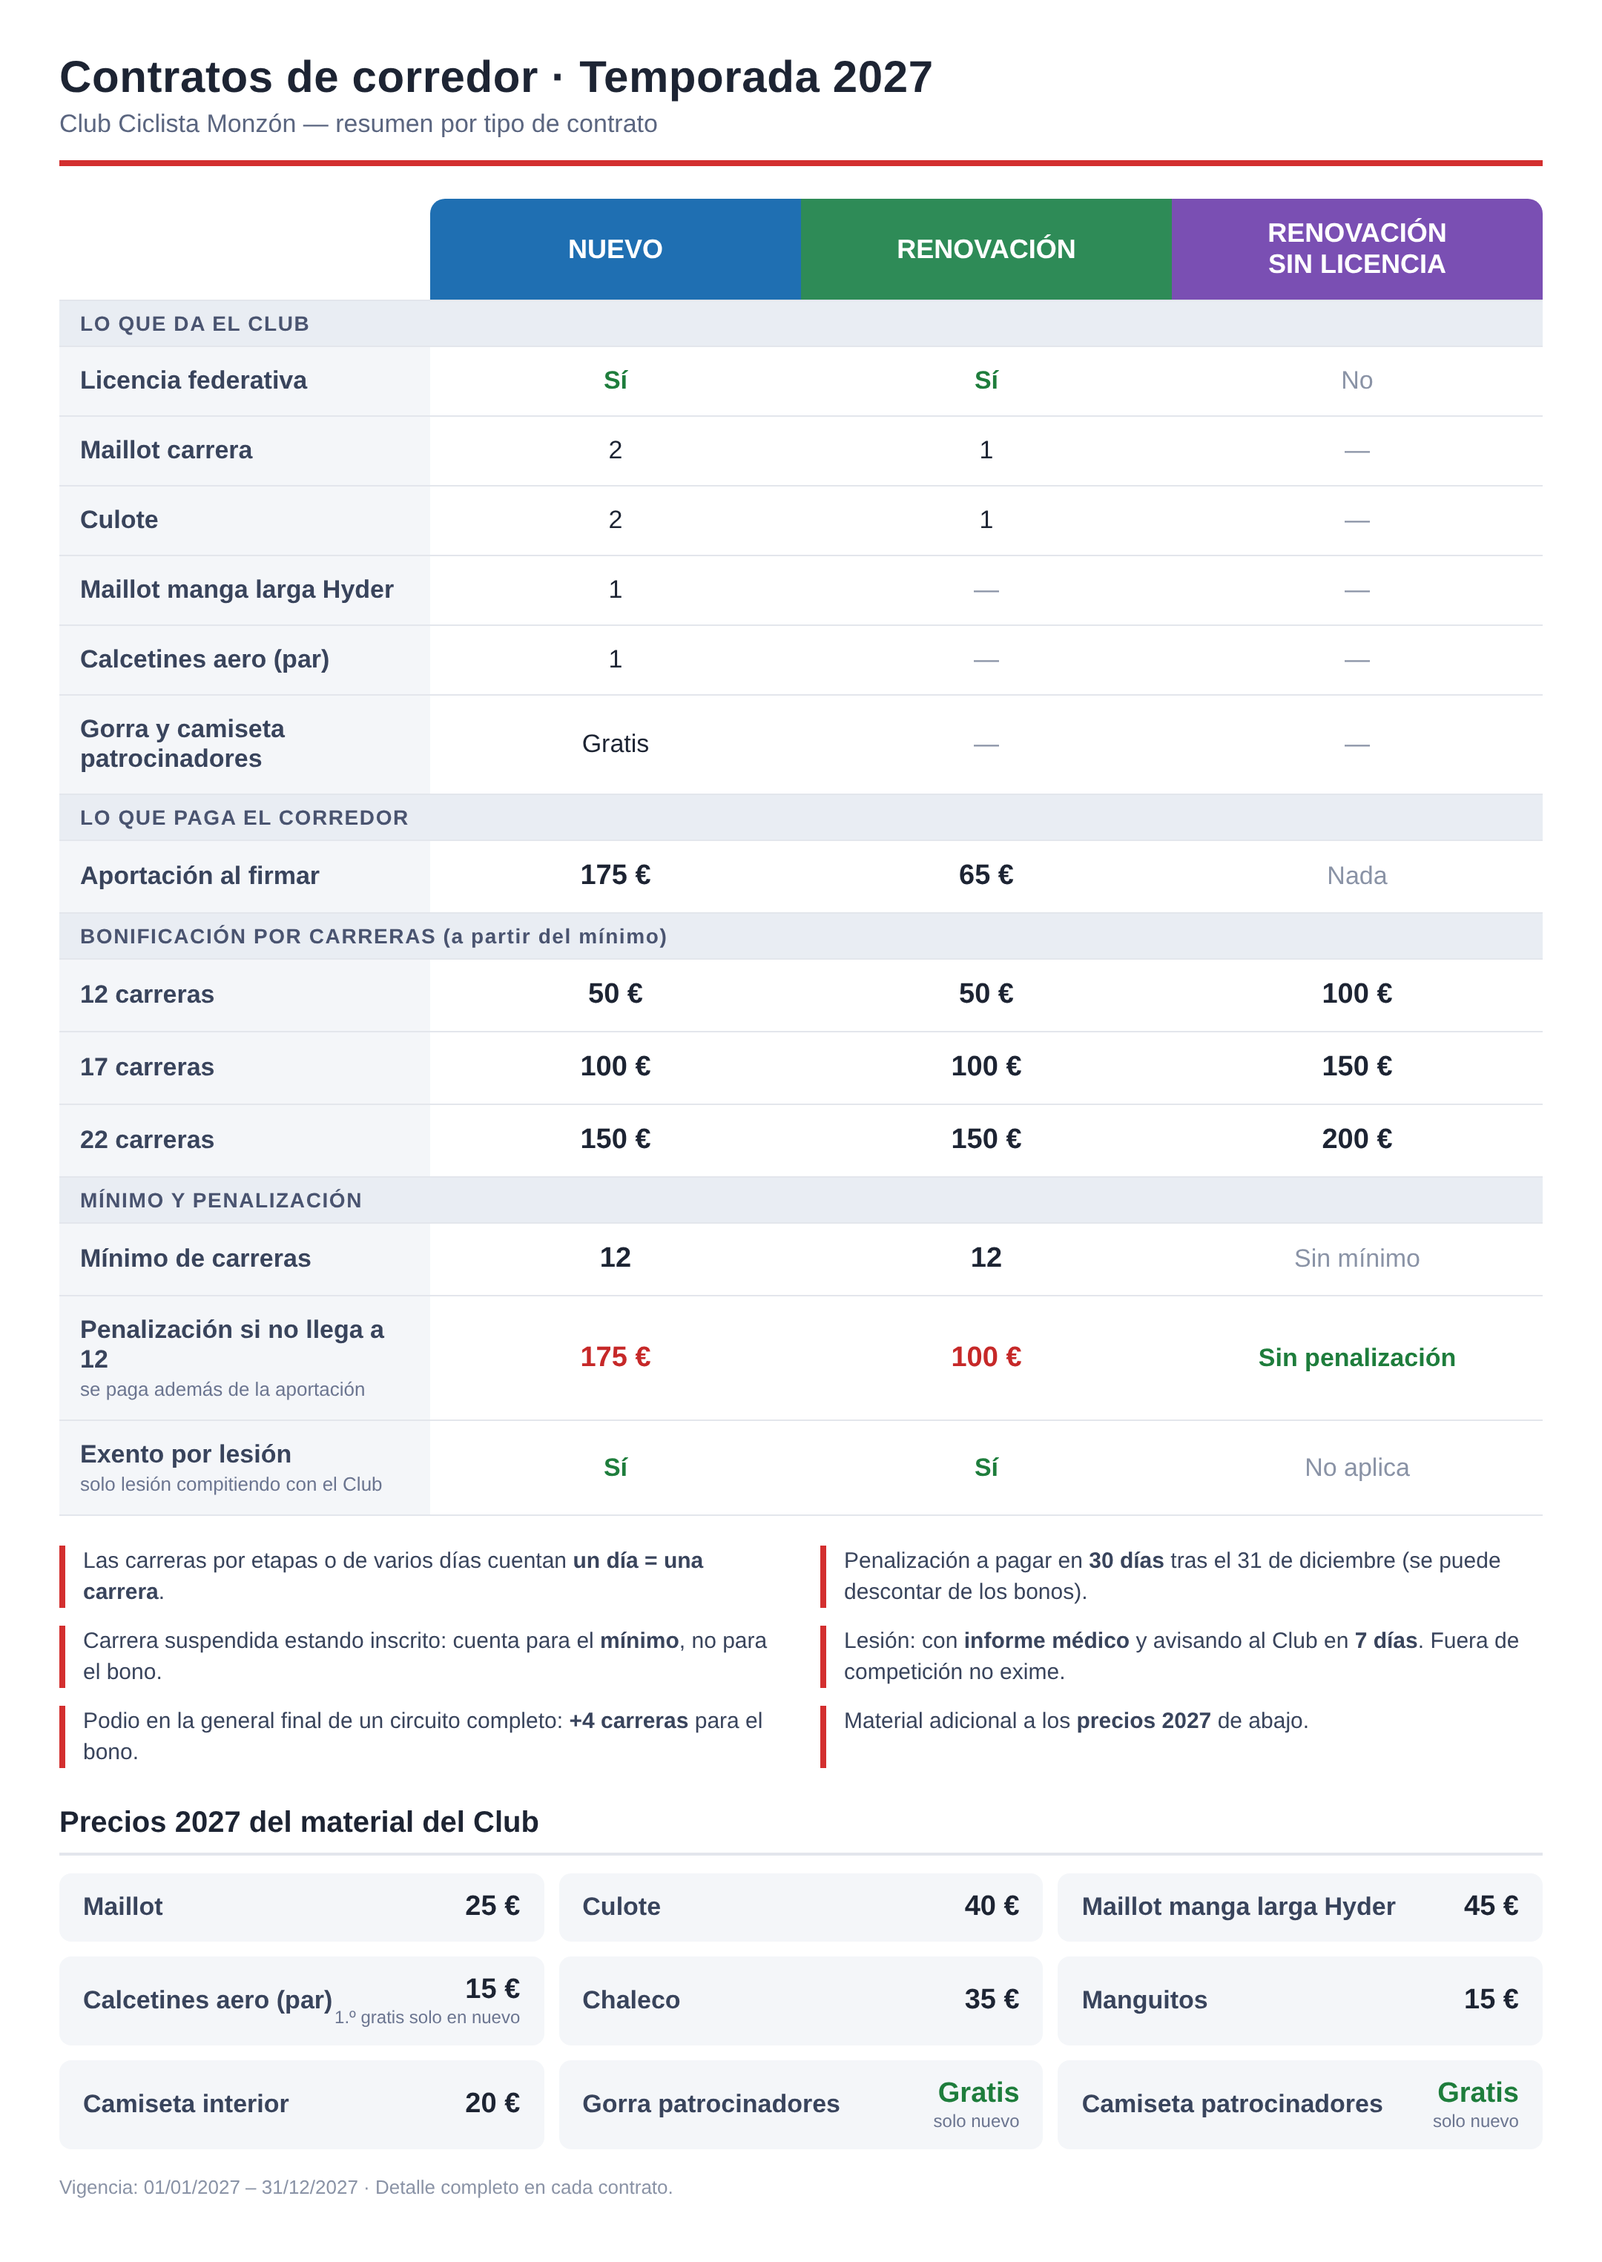
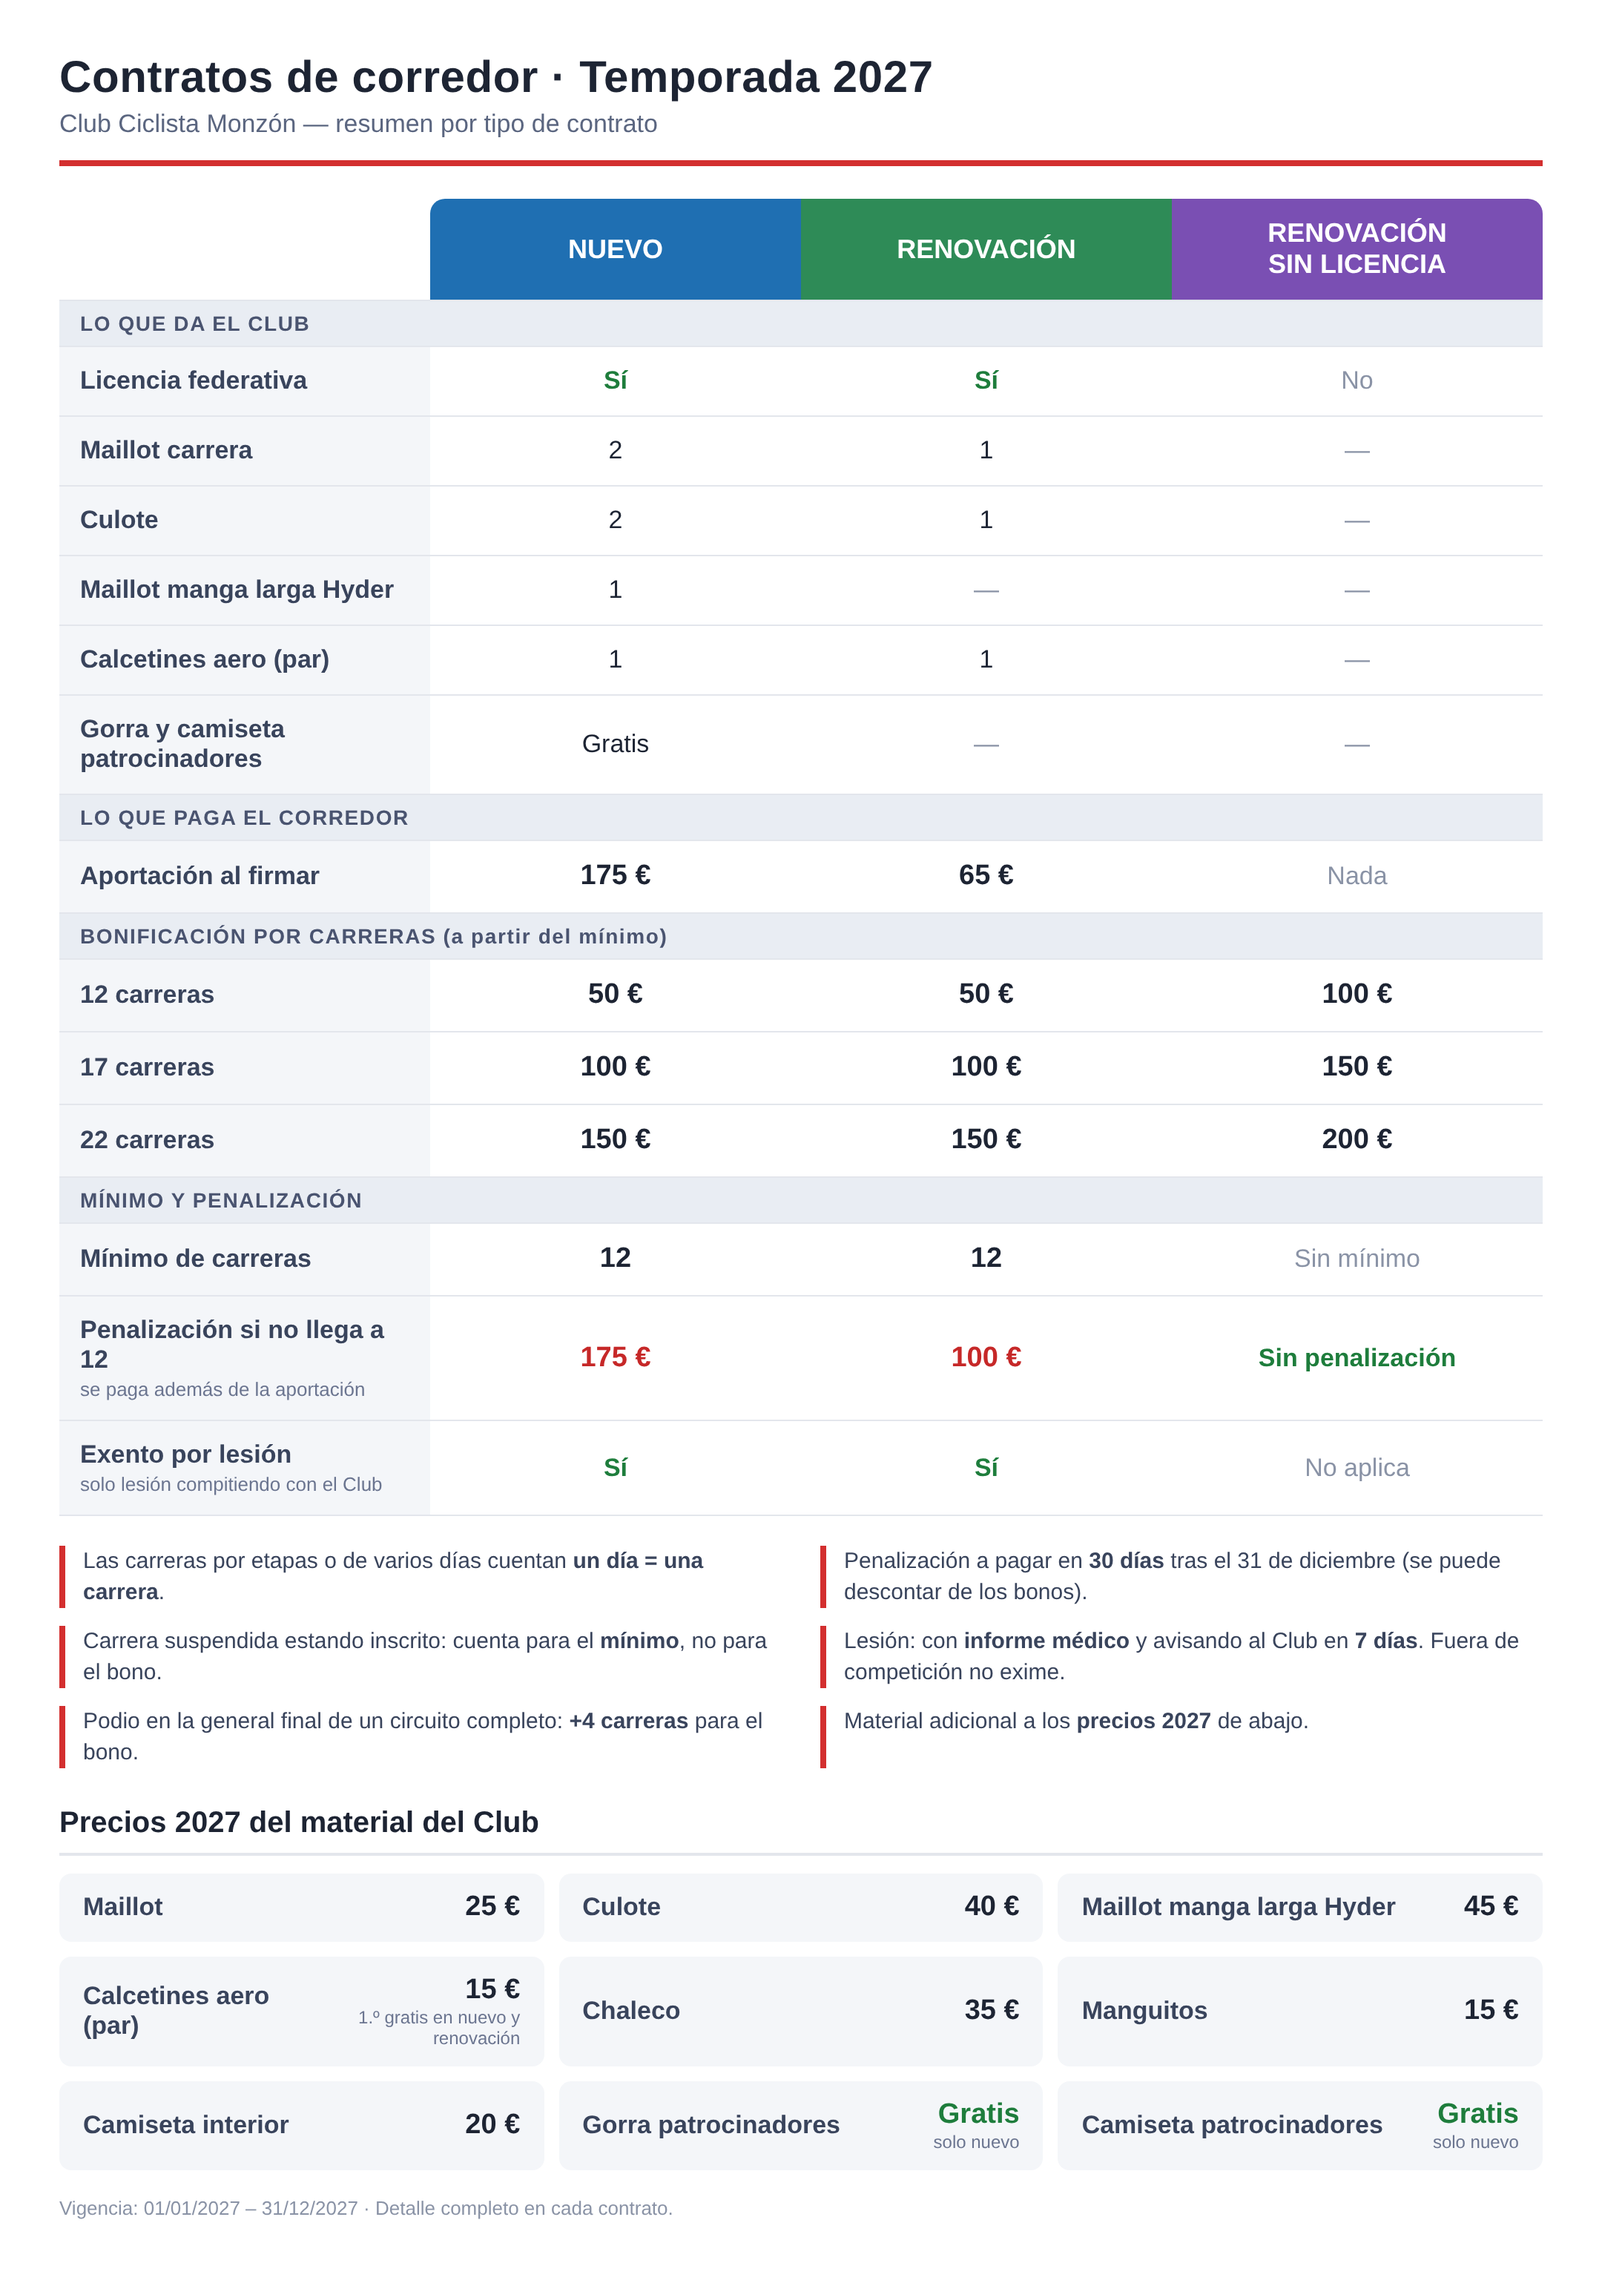
Contratos 2027: renovación vuelve a tener el 1.er par de calcetines gratis (sin licencia no)
Claude-Session: https://claude.ai/code/session_01K6kpA81o86cArr24SEaNxb

diff --git a/contratos/resumen.html b/contratos/resumen.html
@@ -41,7 +41,7 @@ tr.sec td { background: #e9edf3; text-align: left; font-weight: bold; font-size:
 <tr><td class="k">Maillot carrera</td><td>2</td><td>1</td><td class="no">—</td></tr>
 <tr><td class="k">Culote</td><td>2</td><td>1</td><td class="no">—</td></tr>
 <tr><td class="k">Maillot manga larga Hyder</td><td>1</td><td class="no">—</td><td class="no">—</td></tr>
-<tr><td class="k">Calcetines aero (par)</td><td>1</td><td class="no">—</td><td class="no">—</td></tr>
+<tr><td class="k">Calcetines aero (par)</td><td>1</td><td>1</td><td class="no">—</td></tr>
 <tr><td class="k">Gorra y camiseta patrocinadores</td><td>Gratis</td><td class="no">—</td><td class="no">—</td></tr>
 <tr class="sec"><td colspan="4">LO QUE PAGA EL CORREDOR</td></tr>
 <tr><td class="k">Aportación al firmar</td><td class="money">175 €</td><td class="money">65 €</td><td class="no">Nada</td></tr>
@@ -67,7 +67,7 @@ tr.sec td { background: #e9edf3; text-align: left; font-weight: bold; font-size:
 <div><span>Maillot</span><b>25 €</b></div>
 <div><span>Culote</span><b>40 €</b></div>
 <div><span>Maillot manga larga Hyder</span><b>45 €</b></div>
-<div><span>Calcetines aero (par)</span><b>15 €<small>1.º gratis solo en nuevo</small></b></div>
+<div><span>Calcetines aero (par)</span><b>15 €<small>1.º gratis en nuevo y renovación</small></b></div>
 <div><span>Chaleco</span><b>35 €</b></div>
 <div><span>Manguitos</span><b>15 €</b></div>
 <div><span>Camiseta interior</span><b>20 €</b></div>

diff --git a/contratos/Acuerdo_Corredor_Renovacion_2027_CC_Monzon.html b/contratos/Acuerdo_Corredor_Renovacion_2027_CC_Monzon.html
@@ -46,12 +46,12 @@ table.precios td { padding: 3px 8px; }
 <div>
 <p><b>TERCERA.- Condiciones contractuales:</b></p>
 <ul><li>El Club tramitará la licencia del deportista en un plazo máximo de 7 días después de la firma del contrato y entrega de documentación necesaria.</li>
-<li>Se entregará al deportista el siguiente material: un maillot CARRERA y un culote (o equivalentes de la temporada).</li>
+<li>Se entregará al deportista el siguiente material: un maillot CARRERA, un culote y un par de calcetines aero (o equivalentes de la temporada).</li>
 <li>El deportista aportará la cantidad de <b>65 €</b> en concepto de licencia y equipaciones. El Club asume el resto del coste.</li>
 <li>Material adicional: el deportista podrá adquirir más prendas del Club a los precios de la temporada 2027 indicados a continuación.</li></ul>
 <table class="precios"><tr><th colspan="4">Precios 2027 del material del Club</th></tr>
 <tr><td>Maillot</td><td class="n">25 €</td><td>Culote</td><td class="n">40 €</td></tr>
-<tr><td>Maillot manga larga HYDER</td><td class="n">45 €</td><td>Calcetines aero (par)</td><td class="n">15 €</td></tr>
+<tr><td>Maillot manga larga HYDER</td><td class="n">45 €</td><td>Calcetines aero (par)</td><td class="n">1.º gratis · 2.º 15 €</td></tr>
 <tr><td>Chaleco</td><td class="n">35 €</td><td>Manguitos</td><td class="n">15 €</td></tr>
 <tr><td>Camiseta interior</td><td class="n">20 €</td><td></td><td></td></tr>
 </table>
